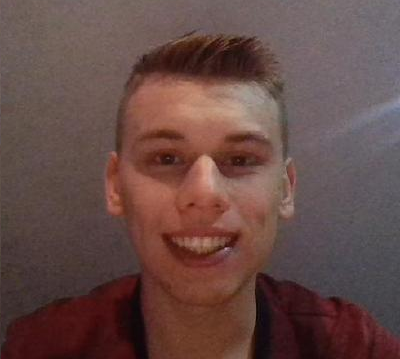
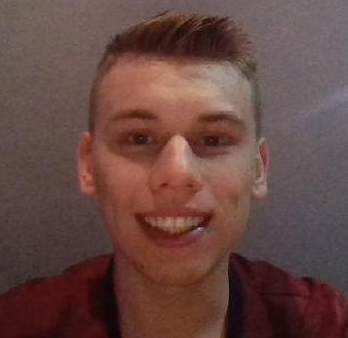
Change Pic

diff --git a/index.html b/index.html
@@ -10,7 +10,7 @@
   		
   	</header>
   	<section class = "about">
-  		<img class = "display-pic" src="https://avatars0.githubusercontent.com/u/29459705?s=400&u=f06b422e5166b9919670c12482fb61b30564be6f&v=4">
+  		<img class = "display-pic" src="https://raw.githubusercontent.com/BLBaylis/Portfolio/master/pic.png">
   		<h1>Bradley Baylis</h1>
   		<h2>Aspiring Coder | Learner | Gamer</h2>
 
